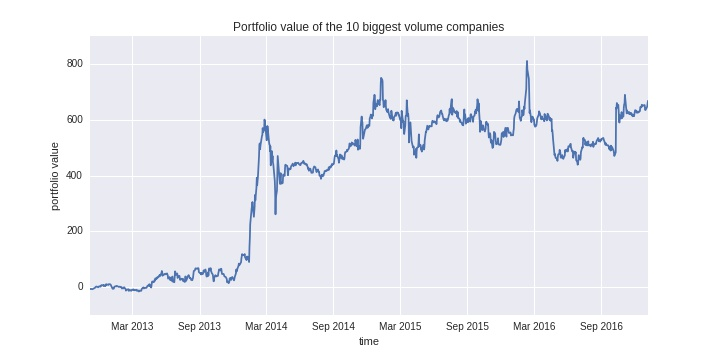
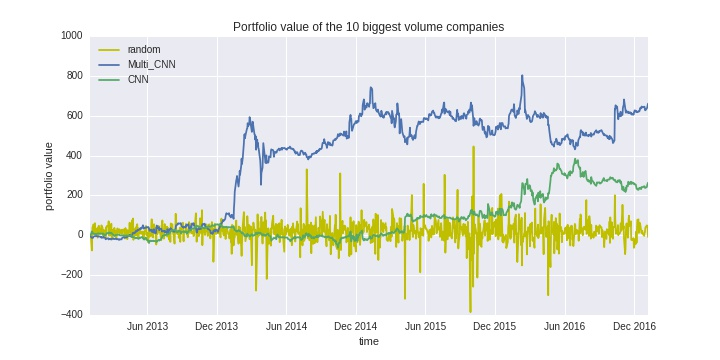
Update documentation

diff --git a/sp500.html b/sp500.html
@@ -10814,7 +10814,7 @@ gg==
 </div>
 <div class="inner_cell">
 <div class="text_cell_render border-box-sizing rendered_html">
-<p>Reducing dimensions has an effect of reduction of varaicne for the duplication of S&P500;, which leads to the better performance in the latter part of observations. Especially, we have better performance when choosing only dominant factors: large volume companies' stocks.</p>
+<p>Reducing dimensions has an effect of reduction of variance for the duplication of S&P500;, which leads to the better performance in the latter part of observations. Especially, we have better performance when choosing only dominant factors: large volume companies' stocks.</p>
 </div>
 </div>
 </div>
@@ -10823,7 +10823,7 @@ gg==
 </div>
 <div class="inner_cell">
 <div class="text_cell_render border-box-sizing rendered_html">
-<p>Nonlinearlity and universal approximation theorem makes neural network attractive. Neural network, however,  is difficult to determine the optimal hyper parameters and optimize parameters. As you seen in the example, a simple archtecture taking stock price as input and output as duplication does not fit data at all. Introducing linear regression structure does the trick. Thus, when applying neural network, we have to consider which parts network should lbe applied to; otherwise, we fail in even fitting training data.</p>
+<p>Nonlinearity and universal approximation theorem makes neural network attractive. Neural network, however,  is difficult to determine the optimal hyper parameters and optimize parameters. As you seen in the example, a simple architecture taking stock price as input and output as duplication does not fit data at all. Introducing linear regression structure does the trick. Thus, when applying neural network, we have to consider which parts network should be applied to; otherwise, we fail in even fitting training data.</p>
 <p>Various research has been done for neural network. As a future work, we can apply state of art algorithms to prediction of S&P500; with the historical data.</p>
 </div>
 </div>

diff --git a/RL_trade.html b/RL_trade.html
@@ -1183,7 +1183,7 @@ $$f_{actor}:\mathbb{R}^n \to \mathbb{R}^{n}. $$</p>
 <div class="inner_cell">
 <div class="text_cell_render border-box-sizing rendered_html">
 <p>We here consider constructing a portfolio with the 10 biggest volume companies out of 500 stocks used for Standard and Poor's 500. The figure below shows chosen stocks and their volume.</p>
-<p><img alt="trade_result" src="http://jjakimoto.github.io/images/trade_result.jpg" /></p>
+<p><img alt="10_biggest_volume_companies" src="http://jjakimoto.github.io/images/10_biggest_volume_companies.jpg" /></p>
 </div>
 </div>
 </div>
@@ -1192,8 +1192,9 @@ $$f_{actor}:\mathbb{R}^n \to \mathbb{R}^{n}. $$</p>
 </div>
 <div class="inner_cell">
 <div class="text_cell_render border-box-sizing rendered_html">
-<p>Next, we compare the performance with randomly chosen portfolio. Randomly chosen portfolio follows the normal distribution $N(0, \bf{I_n})$, where $\bf{I_n}$ is n-dimensional identity matrix. </p>
-<p><img alt="10_biggest_volume_companies" src="http://jjakimoto.github.io/images/10_biggest_volume_companies.jpg" /></p>
+<p>Next, we compare the performance with other algorithms: randomly chosen portfolio and CNN.</p>
+<p><img alt="trade_result" src="http://jjakimoto.github.io/images/trade_result.jpg" /></p>
+<p>Randomly chosen portfolio follows the normal distribution $N(0, 10 \cdot\bf{I_n})$, where $\bf{I_n}$ is n-dimensional identity matrix.</p>
 </div>
 </div>
 </div>
